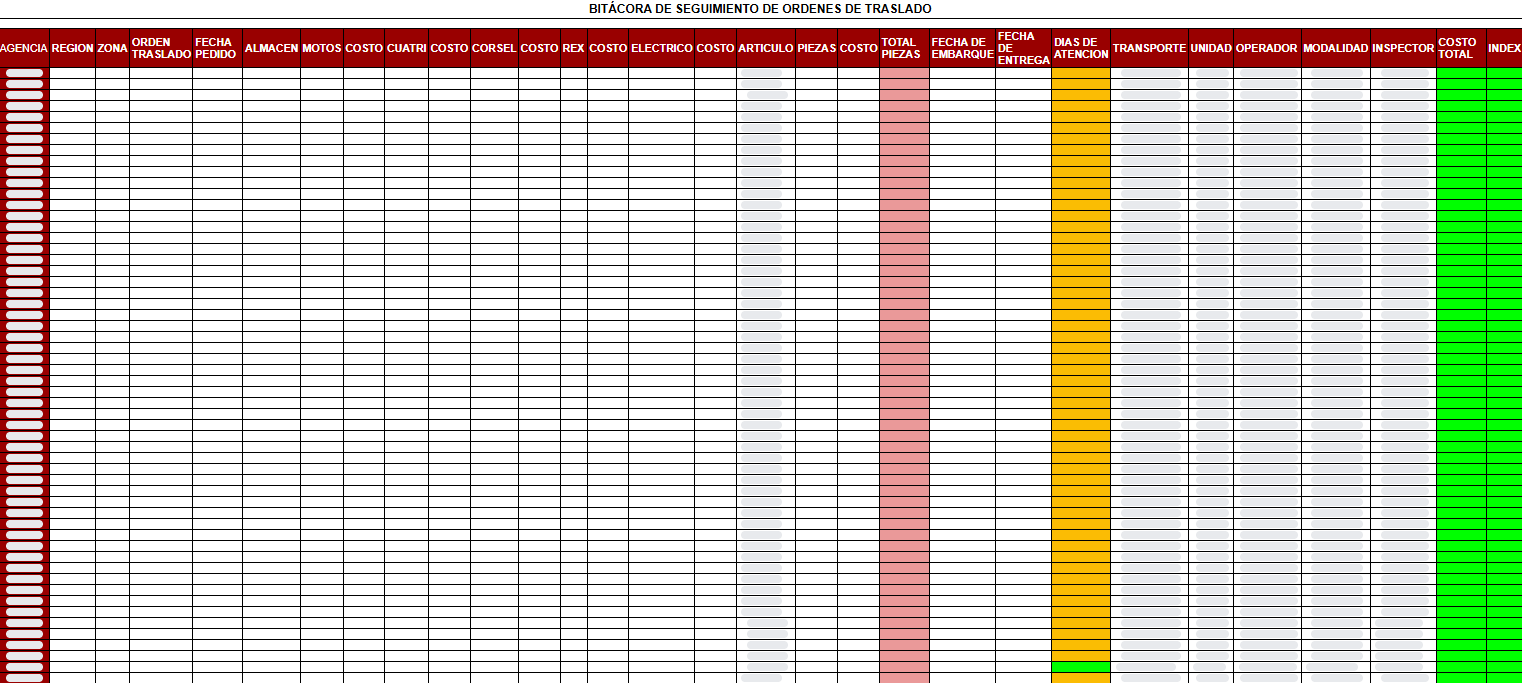
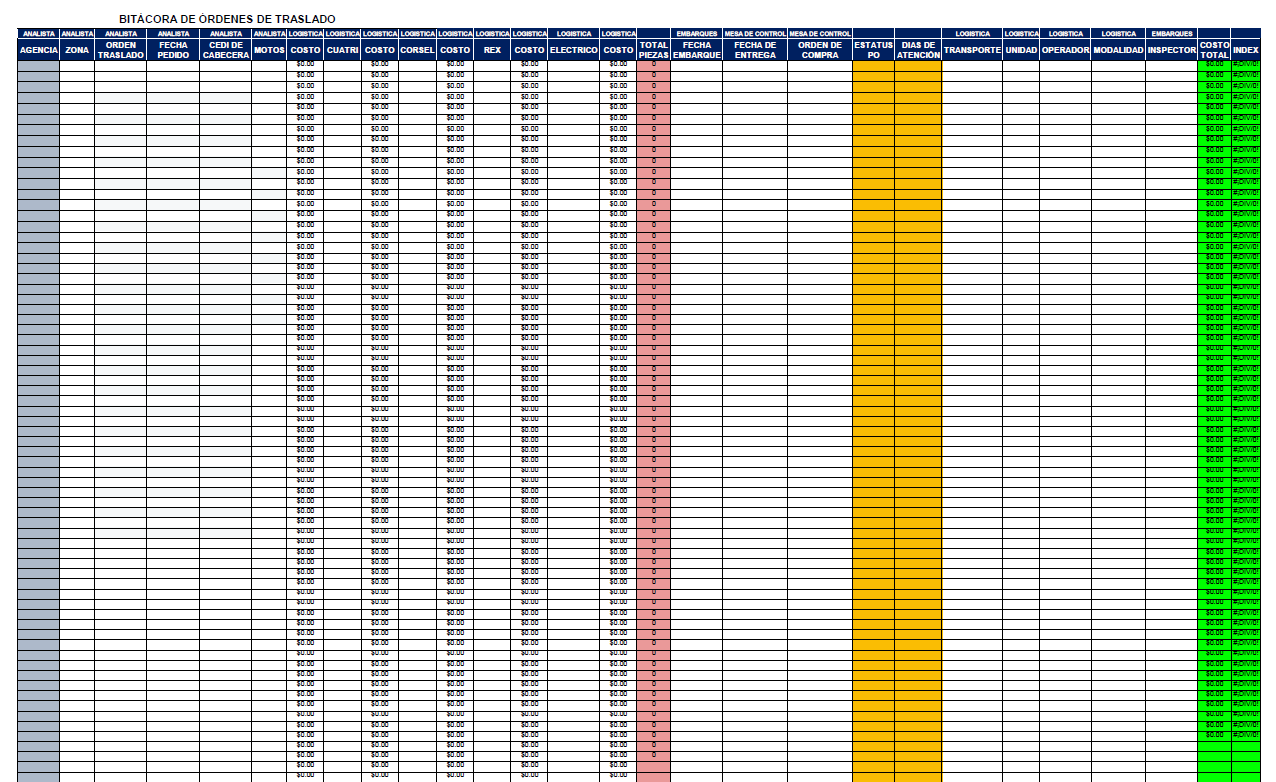
Actualización 19/09/2025 04:40PM

diff --git a/Menu/Procesos/reparaciones.html b/Menu/Procesos/reparaciones.html
@@ -192,14 +192,6 @@
                             data-download="#">
                     Marberte "dañada"
                     </button>
-
-                    <!-- Devolución de estructuras -->
-                    <button class="btn open-offcanvas" 
-                            data-img="../../Documentos/imagenes-procesos/bitacora_devolucion.png"
-                            data-size="large"
-                            data-download="https://docs.google.com/spreadsheets/d/1wWLbBzJYUat7rlJS5dRMfYOj05rCT86oYVgJCbVJCl4/copy?gid=0#gid=0">
-                    Devolución de estructuras
-                    </button>
                     
                     <!-- Boton que nos manda la link de la app-->
                     <a href="https://play.google.com/store/apps/details?id=com.vna.ventonet&pcampaignid=web_share" class="botonapp btn" target="_blank">

diff --git a/Menu/Procesos/recuperacion.html b/Menu/Procesos/recuperacion.html
@@ -205,7 +205,7 @@
                         <div class="offcanvas-body" style="padding: 0;">
                             <img src="../../Documentos/imagenes-procesos/reporte semanal de recuperacion de estructuras.png" alt="" width="90%" height="68%">
                             <div class="p-3">
-                                <a href="https://docs.google.com/spreadsheets/d/1E7a9-DB8ERhcfNgGyVoWW70COaM0jtUG0-MV5nursBY/copy?gid=0#gid=0" class="btn w-100" target="_blank">
+                                <a href="https://docs.google.com/spreadsheets/d/1TJHwuN4ixLPFQWdgfgB1M_YcRfjKWjziYRNQJcUHnUo/copy?usp=sharing" class="btn w-100" target="_blank">
                                     Descargar documento 
                                 </a>
                             </div>

diff --git a/Menu/Procesos/recibo.html b/Menu/Procesos/recibo.html
@@ -167,7 +167,7 @@
                     <button class="btn open-offcanvas" 
                             data-img="../../Documentos/imagenes-procesos/ControlRecepciondeMercancia.png"
                             data-size="large" 
-                            data-download="https://docs.google.com/spreadsheets/d/1jjhXZh12C7uBf8_OalLcP6QQBV4apJpSIS5VrSB6_W8/copy?gid=0#gid=0">
+                            data-download="https://docs.google.com/spreadsheets/d/1M5PDkZHqczg55SyOPy67G9a8S29SFm0O9pVSZEMmpTk/copy?usp=sharing">
                             
                     Control de recepción de mercancía
                     </button> 

diff --git a/Menu/Procesos/embarque.html b/Menu/Procesos/embarque.html
@@ -203,7 +203,7 @@
                             data-img="../../Documentos/bitacora_devoluciones.png"
                             data-size="large" 
                             data-download="https://docs.google.com/spreadsheets/d/1wWLbBzJYUat7rlJS5dRMfYOj05rCT86oYVgJCbVJCl4/copy?gid=0#gid=0">
-                    Bitacora de retornos y devoluciones
+                    Bitacora de devoluciones
                     </button>
 
                 </div>
